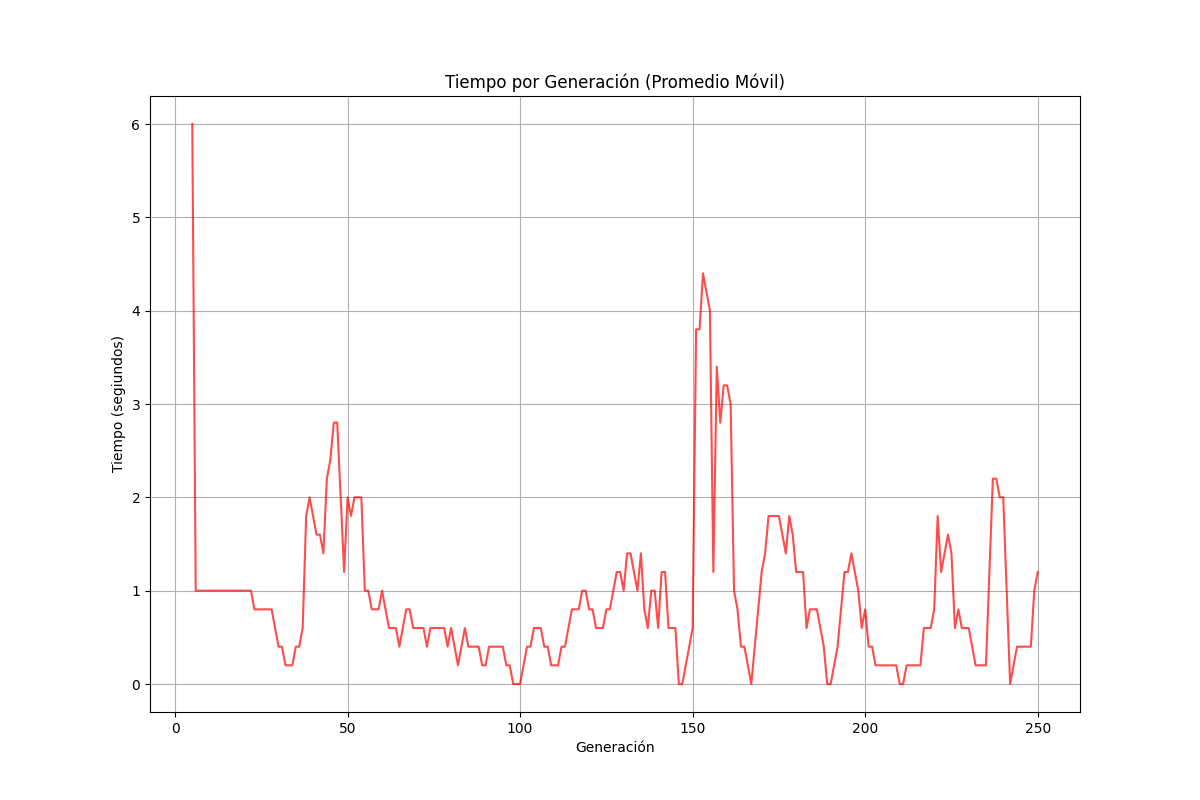
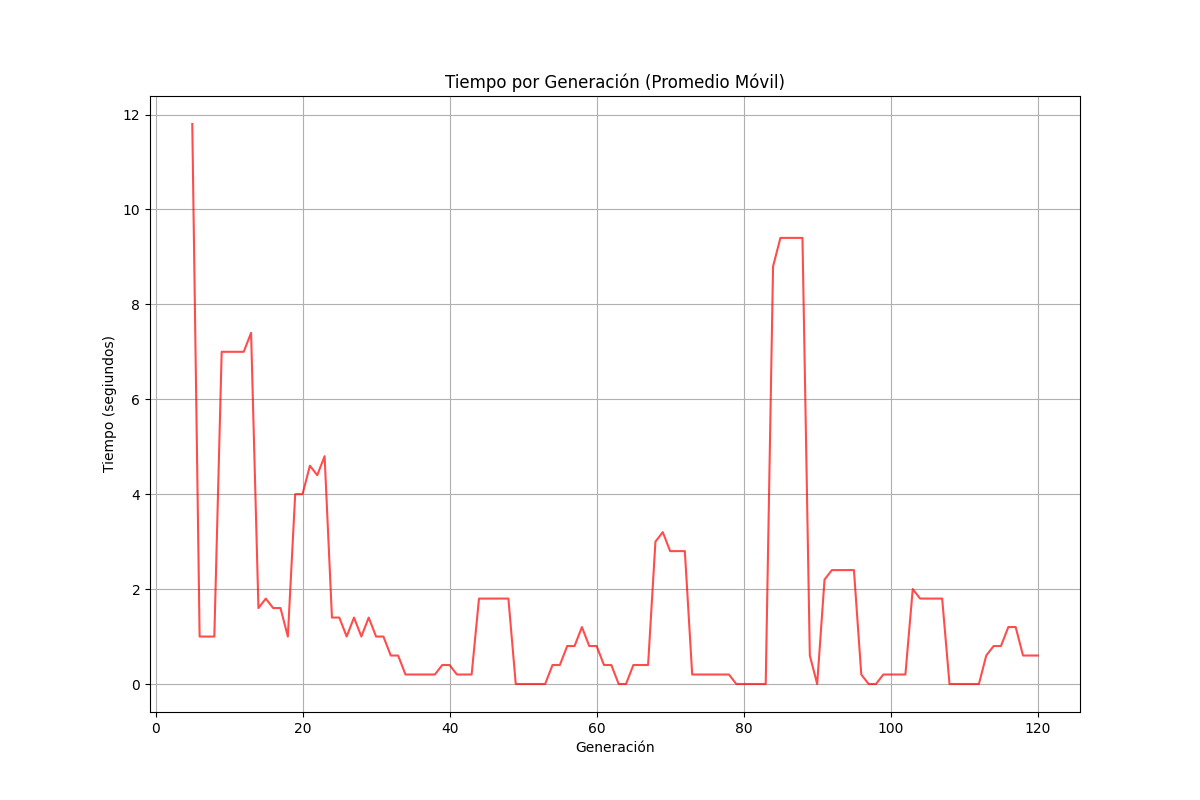
Jenetics 300 sim, execute

diff --git a/src/MainJenetics.java b/src/MainJenetics.java
@@ -1,14 +1,17 @@
 import io.jenetics.*;
 import io.jenetics.engine.*;
 
+
 import java.io.FileWriter;
 import java.io.IOException;
 import java.util.concurrent.ExecutorService;
 import java.util.concurrent.Executors;
+import java.util.concurrent.TimeUnit;
 
 
 public class MainJenetics {
     private static final FuncionEvaluacionJenetics FUNCION_EVALUACION = new FuncionEvaluacionJenetics();
+    private static Phenotype<IntegerGene, Double> mejorCromosoma; // Variable para almacenar el mejor cromosoma
 
     public static void main(String[] args) { // Nombre del método corregido a 'main'
 
@@ -21,16 +24,14 @@ public class MainJenetics {
         // Configuración y ejecución del motor genético
         final Engine<IntegerGene, Double> engine = Engine // 
             .builder(MainJenetics::evaluar, GT)
-            .populationSize(80)
             // .executor(executor)
             .alterers(
                 new Mutator<>(0.1),
                 new MultiPointCrossover<>(0.6)
             )
-            .executor((executor))
-            // .executor(executor)
-            
+            .executor(executor)
             .build();
+
         
         final long[] sumatime = new long[1];
         // Ejecución del algoritmo genético
@@ -38,9 +39,10 @@ public class MainJenetics {
             csvWriter.append("Generacion,Aptitud Mejor Individuo,DisPos1,DisPos2,DisPos3,DisPos4,DisPos5,DisKick1,DisKick2,DisKick3,DisKick4,DisKick5,DisTeam1,DisTeam2,DisTeam3,DisTeam4,DisTeam5,Tiempo por generacion,Tiempo total,Uso CPU\n");
             EvolutionStatistics<Double, ?> statistics = EvolutionStatistics.ofNumber();
 
-            engine.stream()
-                .limit(250)
+            mejorCromosoma = engine.stream()
 
+                .limit(100)
+                // .parallel() # Tengo problemas a la hora de paralelizar el algoritmo, puede deberse a los semáforos que estan en FuncionEvaluacionJenetics y SimulationCanvas
                 .peek(statistics)
 
                 .peek(result -> {
@@ -48,7 +50,7 @@ public class MainJenetics {
                     
                     long generation = result.generation();
                     
-                    System.out.println("Generación " + generation + ":");
+                    // System.out.println("Generación " + generation + ":");
 
                     // Obteniendo el mejor genotipo
                     Genotype<IntegerGene> mejorGenotipo = result.bestPhenotype().genotype();
@@ -61,31 +63,44 @@ public class MainJenetics {
                         }
 
                         long endTime = System.nanoTime();
-                        // Converting nanoseconds to milliseconds
-                        double duration = (endTime - startTime) /100000; // Tiempo en milisegundos 
+                        double duration = (endTime - startTime);
                         sumatime[0] += duration;
                         
                         
                         csvWriter.append("," + duration + "," + sumatime[0]);
 
-                        csvWriter.append(",").append(String.format("%.2f", CpuUsage.getCpuUsage().getUsage()));
+                        // Intento obtener la carga de CPU y manejo de errores
+                        try {
+                            double cpuLoad = CpuUsageMonitor.getProcessCpuLoad();
+                            csvWriter.append(",").append(String.format("%.2f", cpuLoad));
+                        } catch (Exception e) {
+                            csvWriter.append(",none"); // Escribir 'none' si hay un error
+                        }
                         csvWriter.append("\n");
 
                     } catch (IOException e) {
-                        e.printStackTrace();
+                        e.printStackTrace(); 
                     }
                 })
                 .collect(EvolutionResult.toBestPhenotype());
 
             System.out.println(statistics);
+            System.out.println("Mejor individuo: " + mejorCromosoma);
+            // Transformar el ultimo dato de tiempo total a segundos
          } catch (IOException e) {
             System.err.println("Error al escribir el archivo CSV: " + e.getMessage()); 
         } catch (Exception e) {
             System.err.println("Error: " + e.getMessage()); 
-        }
-        finally {
-            executor.shutdown();
-        }
+        } finally {
+            executor.shutdownNow(); // Se cambió a shutdownNow() para terminar las tareas de forma inmediata
+            try {
+                if (!executor.awaitTermination(800, TimeUnit.MILLISECONDS)) {
+                    executor.shutdownNow(); // Cancelar tareas actualmente en ejecución
+                }
+            } catch (InterruptedException ie) {
+                executor.shutdownNow();
+            }
+        } 
     }
     // Función de evaluación adaptada para Jenetics
     private static double evaluar(Genotype<IntegerGene> genotype) {

diff --git a/src/CpuUsageMonitor.java b/src/CpuUsageMonitor.java
@@ -1,0 +1,17 @@
+import java.lang.management.ManagementFactory;
+import java.lang.management.OperatingSystemMXBean;
+import com.sun.management.UnixOperatingSystemMXBean;
+
+public class CpuUsageMonitor {
+    private static OperatingSystemMXBean osBean = ManagementFactory.getPlatformMXBean(OperatingSystemMXBean.class);
+
+    // Method to get the CPU load from the JVM
+    public static double getProcessCpuLoad() {
+        if (osBean instanceof UnixOperatingSystemMXBean) {
+            return ((UnixOperatingSystemMXBean) osBean).getProcessCpuLoad();
+        } else {
+            // Handle the case for other operating systems or errors
+            return -1;
+        }
+    }
+}

diff --git a/analisis/analisis_JENETICS.py b/analisis/analisis_JENETICS.py
@@ -2,7 +2,7 @@ import pandas as pd
 import matplotlib.pyplot as plt
 
 # Carga los datos desde el archivo CSV
-datos = pd.read_csv('../ResultadosAlgoritmoGeneticoA.csv')
+datos = pd.read_csv('../ResultadosAlgoritmoGenetico.csv')
 
 # Ajustes para los gráficos
 fig_size = (12, 8)  # Tamaño de la figura aumentado
